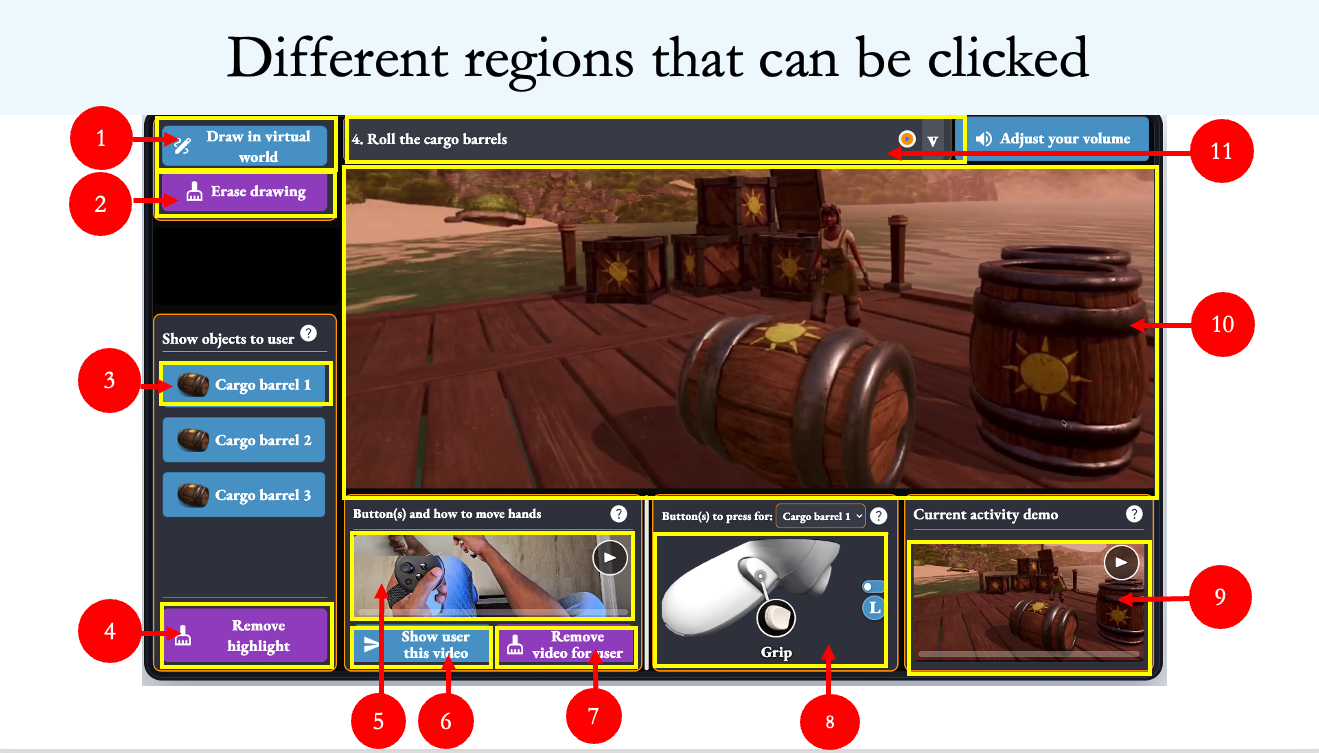
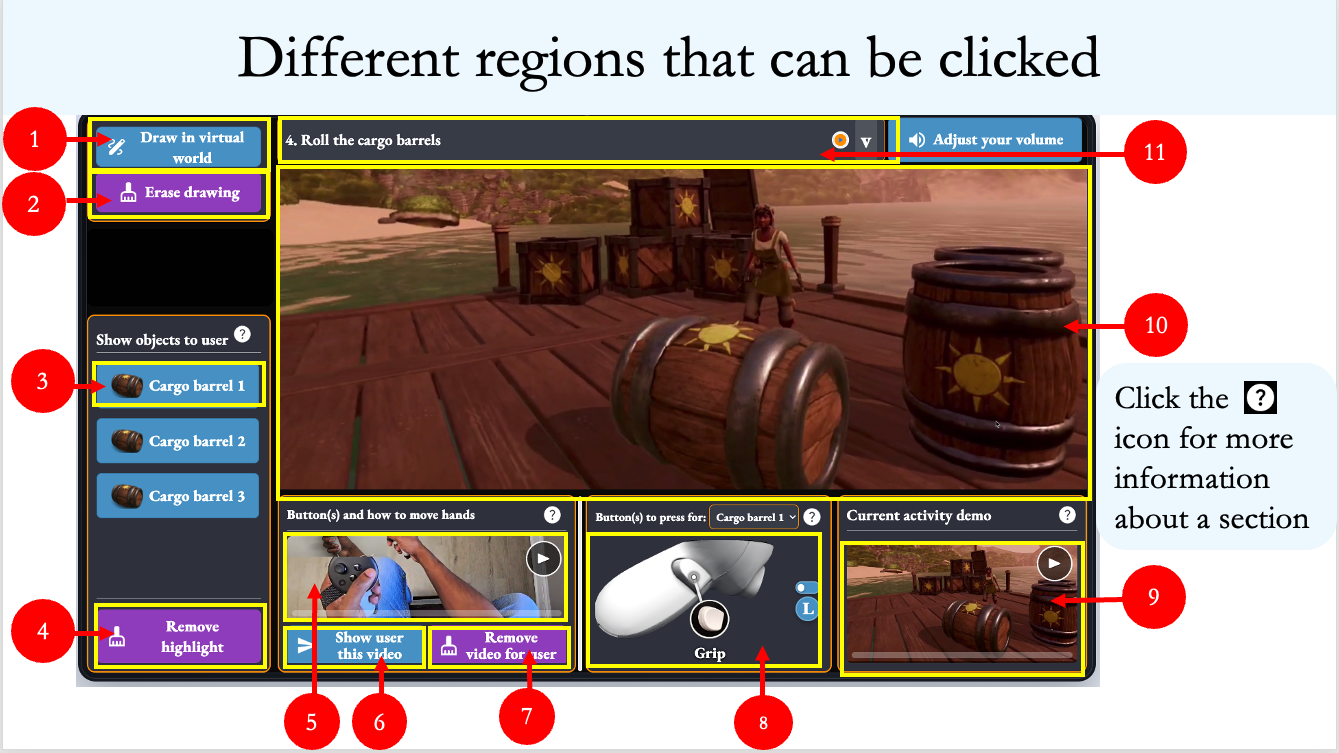
Add backend-generated MTurk completion codes-41

diff --git a/src/App.jsx b/src/App.jsx
@@ -118,15 +118,31 @@ function shuffleWithSeed(items, seedValue) {
   return shuffled;
 }
 
-function makeDashboardAttentionQuestion(check) {
+function makeDashboardAttentionQuestion(check, scenarioContext = {}) {
   return {
+    ...scenarioContext,
     question_id: check.check_id,
     prompt: check.prompt,
     correct_answers: check.correct_answers || [],
     question_type: check.question_type || check.type,
-    screen_variant: check.screen_variant || 'default',
+    screen_variant: scenarioContext.screen_variant || check.screen_variant || 'default',
     is_attention_check: true,
     check_id: check.check_id,
+  };
+}
+
+function getScenarioContextForDashboardAttention(item) {
+  const question = item?.item ?? {};
+  return {
+    scenario_id: question.scenario_id || '',
+    scenario_text: question.scenario_text || '',
+    scenario_order_index: question.scenario_order_index || '',
+    scenario_question_index: question.scenario_question_index || '',
+    task_id: question.task_id,
+    task_order: question.task_order,
+    vr_view_image: question.vr_view_image,
+    object_view_images: question.object_view_images ?? [],
+    screen_variant: question.screen_variant || 'default',
   };
 }
 
@@ -165,7 +181,7 @@ function buildQuestionFlow(questions, attentionChecks, sessionId) {
     .sort((a, b) => (a.order ?? 0) - (b.order ?? 0))
     .map((check) => (
       check.type === 'dashboard_click'
-        ? { type: 'dashboard', id: check.check_id, item: makeDashboardAttentionQuestion(check), check }
+        ? { type: 'dashboard', id: check.check_id, item: null, check }
         : { type: 'attention_check', id: check.check_id, item: check }
     ));
 
@@ -174,15 +190,31 @@ function buildQuestionFlow(questions, attentionChecks, sessionId) {
   const slots = getAttentionInsertionSlots(mainItems.length, checkItems.length, sessionId);
   const flow = [];
   let checkIndex = 0;
+  let lastScenarioContext = {};
   mainItems.forEach((item, index) => {
     flow.push(item);
+    if (item.type === 'dashboard' && !item.item?.is_attention_check) {
+      lastScenarioContext = getScenarioContextForDashboardAttention(item);
+    }
     while (slots[checkIndex] === index + 1) {
-      flow.push(checkItems[checkIndex]);
+      const checkItem = checkItems[checkIndex];
+      flow.push(checkItem.type === 'dashboard'
+        ? {
+          ...checkItem,
+          item: makeDashboardAttentionQuestion(checkItem.check, lastScenarioContext),
+        }
+        : checkItem);
       checkIndex += 1;
     }
   });
   while (checkIndex < checkItems.length) {
-    flow.push(checkItems[checkIndex]);
+    const checkItem = checkItems[checkIndex];
+    flow.push(checkItem.type === 'dashboard'
+      ? {
+        ...checkItem,
+        item: makeDashboardAttentionQuestion(checkItem.check, lastScenarioContext),
+      }
+      : checkItem);
     checkIndex += 1;
   }
   return flow;
@@ -679,6 +711,44 @@ function isCorrectRegionSelection(selectedRegionId, correctRegionIds, selectedBa
   return false;
 }
 
+function HarpoonInfoText({ text, textKey, openInfoKey, setOpenInfoKey, description }) {
+  const value = String(text ?? '');
+  const match = value.match(/harpoon/i);
+  if (!match) return value;
+
+  const before = value.slice(0, match.index);
+  const term = value.slice(match.index, match.index + match[0].length);
+  const after = value.slice(match.index + match[0].length);
+  const isOpen = openInfoKey === textKey;
+
+  return (
+    <>
+      {before}
+      <span className="harpoon-term-wrap">
+        <span>{term}</span>
+        <button
+          type="button"
+          className="harpoon-info-button"
+          aria-label="What is a harpoon?"
+          aria-expanded={isOpen}
+          onClick={(event) => {
+            event.stopPropagation();
+            setOpenInfoKey((valueKey) => valueKey === textKey ? '' : textKey);
+          }}
+        >
+          <img src={assetUrl('img/button_icons/info.png')} alt="" aria-hidden="true" />
+        </button>
+        {isOpen && (
+          <span className="harpoon-info-tooltip" role="tooltip">
+            {description}
+          </span>
+        )}
+      </span>
+      {after}
+    </>
+  );
+}
+
 function SimulatedDashboard({ selectedRegionId, onRegionClick, screenVariant, metadata, resetKey, uiText, scenarioConfig = {} }) {
   const tasks = metadata?.tasks ?? [];
   const dashboardText = uiText?.dashboard ?? {};
@@ -1076,7 +1146,7 @@ function SimulatedDashboard({ selectedRegionId, onRegionClick, screenVariant, me
               alt=""
               aria-hidden="true"
             />
-            <span className="task-select-chevron" aria-hidden="true">v</span>
+            <span className="task-select-chevron" aria-hidden="true" />
           </button>
         </div>
         {isTaskDropdownOpen && (
@@ -1613,6 +1683,19 @@ function InlineAttentionCheckPage({ check, questionIndex, totalQuestions, onSubm
 }
 function MainQuestionPage({ question, questionIndex, totalQuestions, selectedRegionId, onRegionClick, onNext, metadata, uiText }) {
   const selectedLabel = selectedRegionId ? getRegionFeedbackLabel(selectedRegionId, uiText) : '';
+  const [openHarpoonInfoKey, setOpenHarpoonInfoKey] = useState('');
+  const harpoonDescription = uiText?.question?.harpoonDescription
+    ?? 'A harpoon is a spear-like tool used to catch or pull objects from a distance.';
+
+  useEffect(() => {
+    if (!openHarpoonInfoKey) return undefined;
+    function closeHarpoonInfo(event) {
+      if (event.target?.closest?.('.harpoon-term-wrap')) return;
+      setOpenHarpoonInfoKey('');
+    }
+    document.addEventListener('click', closeHarpoonInfo);
+    return () => document.removeEventListener('click', closeHarpoonInfo);
+  }, [openHarpoonInfoKey]);
 
   return (
     <main className="study-interaction-page" data-region-id="question-screen">
@@ -1620,9 +1703,25 @@ function MainQuestionPage({ question, questionIndex, totalQuestions, selectedReg
         <div data-region-id="question-text-area">
           <p className="eyebrow" data-region-id="question-progress">{formatTextTemplate(uiText?.question?.progressTemplate ?? 'Question {current} of {total}', { current: questionIndex + 1, total: totalQuestions })}</p>
           {question.scenario_text && !question.hide_scenario_text ? (
-            <p className="scenario-context" data-region-id="question-scenario-text">{question.scenario_text}</p>
+            <p className="scenario-context" data-region-id="question-scenario-text">
+              <HarpoonInfoText
+                text={question.scenario_text}
+                textKey={`${question.question_id}-scenario`}
+                openInfoKey={openHarpoonInfoKey}
+                setOpenInfoKey={setOpenHarpoonInfoKey}
+                description={harpoonDescription}
+              />
+            </p>
           ) : null}
-          <h1 data-region-id="question-prompt">{question.prompt}</h1>
+          <h1 data-region-id="question-prompt">
+            <HarpoonInfoText
+              text={question.prompt}
+              textKey={`${question.question_id}-prompt`}
+              openInfoKey={openHarpoonInfoKey}
+              setOpenInfoKey={setOpenHarpoonInfoKey}
+              description={harpoonDescription}
+            />
+          </h1>
           <p className={`selection-feedback ${selectedRegionId ? 'has-selection' : ''}`} data-region-id="question-selection-feedback">
             {selectedRegionId ? (
               <>

diff --git a/src/styles.css b/src/styles.css
@@ -314,7 +314,6 @@ button:disabled {
 
 .task-select-chevron {
   color: #ffffff;
-  font-size: 1.1rem;
   line-height: 1;
 }
 
@@ -1135,8 +1134,15 @@ button:disabled {
   border-radius: 0.35rem;
   background: rgba(255, 255, 255, 0.12);
   color: #ffffff;
-  font-size: clamp(1.35rem, 1.75vw, 1.95rem);
-  font-weight: 900;
+}
+
+.tablet-frame .sim-dashboard [aria-label="Task dropdown"] .task-select-chevron::before {
+  content: "";
+  width: clamp(0.58rem, 0.74vw, 0.82rem);
+  height: clamp(0.58rem, 0.74vw, 0.82rem);
+  border-right: clamp(0.16rem, 0.2vw, 0.22rem) solid currentColor;
+  border-bottom: clamp(0.16rem, 0.2vw, 0.22rem) solid currentColor;
+  transform: translateY(-12%) rotate(45deg);
 }
 
 .tablet-frame .sim-dashboard [aria-label="Task dropdown"] .task-select-list {
@@ -1988,6 +1994,62 @@ button:disabled {
 
 .selection-feedback strong {
   font-weight: 900;
+}
+
+.harpoon-term-wrap {
+  position: relative;
+  display: inline-flex;
+  align-items: baseline;
+  gap: 0.18em;
+  white-space: nowrap;
+}
+
+.harpoon-info-button {
+  display: inline-grid;
+  place-items: center;
+  width: 0.92em;
+  height: 0.92em;
+  min-width: 0.92em;
+  min-height: 0.92em;
+  padding: 0;
+  border: 0;
+  border-radius: 999px;
+  background: rgba(12, 16, 24, 0.96);;
+  color: black;
+  vertical-align: text-top;
+  box-shadow: none;
+  transform: translateY(-0.04em);
+}
+
+.harpoon-info-button:hover,
+.harpoon-info-button:focus-visible {
+  background: transparent;
+  outline: 0.12rem solid #2563eb;
+  outline-offset: 0.08rem;
+}
+
+.harpoon-info-button img {
+  width: 100%;
+  height: 100%;
+  display: block;
+}
+
+.harpoon-info-tooltip {
+  position: absolute;
+  z-index: 30;
+  left: 0;
+  top: calc(100% + 0.35rem);
+  width: min(19rem, 72vw);
+  padding: 0.65rem 0.75rem;
+  border: 0.1rem solid #d8b400;
+  border-radius: 0.55rem;
+  background: #fff8bf;
+  color: #2b2200;
+  box-shadow: 0 0.7rem 1.8rem rgba(15, 23, 42, 0.22);
+  font-size: clamp(0.95rem, 1.05vw, 1.05rem);
+  line-height: 1.25;
+  white-space: normal;
+  font-weight: 700;
 }
 
 .tablet-stage {
